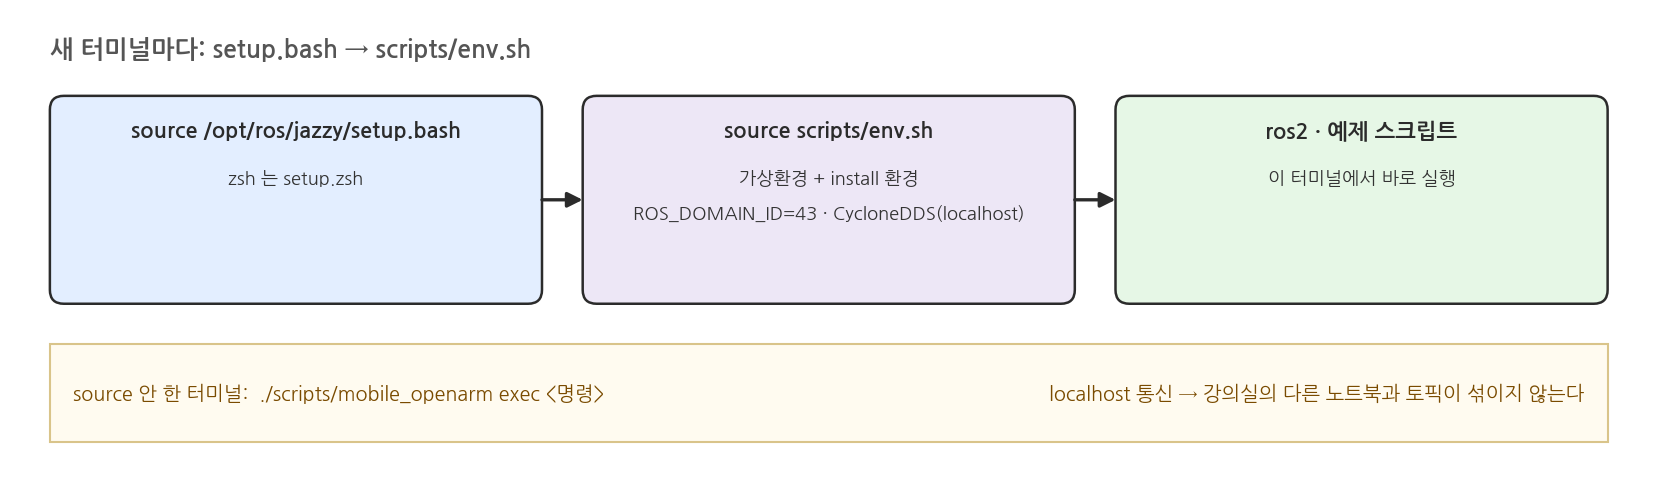
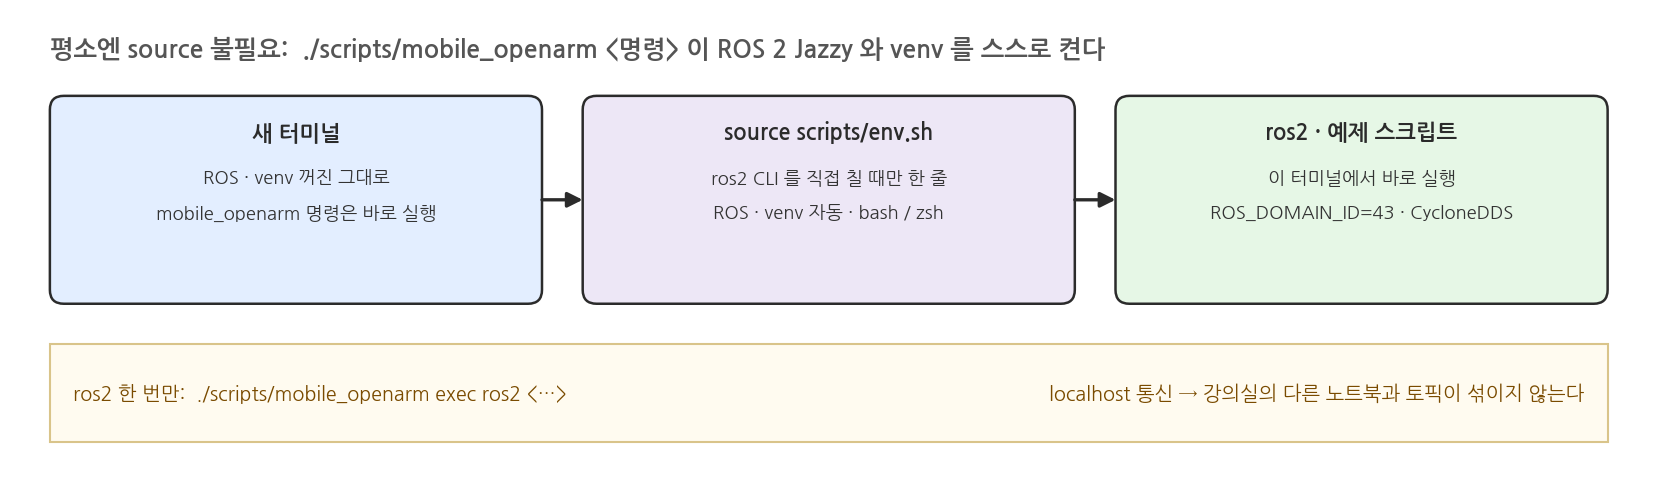
Setup page: redraw install and env.sh figures for the new install flow
The ③ install-script, install_lecture.sh step, env.sh and env.sh step
figures still showed the old flow (ROS must be sourced first, missing apt
packages abort, bare pip check, source in every terminal). They now show:
install_lecture.sh installs missing apt packages with retries, runs rosdep
init/update, builds the venv from /usr/bin/python3, filters pip conflicts
with check_pip_deps.py and ends with doctor; mobile_openarm needs no source
and env.sh is only for typing ros2 directly (ROS and venv turned on
automatically, bash or zsh). The zsh troubleshooting tile points to env.sh.

Confluence page 3692331054 v40 (attachments v8).

diff --git a/docs/camp/draw_setup_detail_figures.py b/docs/camp/draw_setup_detail_figures.py
@@ -36,11 +36,11 @@ def ros2_packages():
 # ================================================================ 1-2. install script
 def install_script():
     fig, ax = fig_ax(14, 3.9)
-    note(ax, 0.3, 3.6, "② git clone  →  ③ ./scripts/install_lecture.sh 가 하는 일", bold=True, fs=12)
-    chain(ax, [("rosdep 확인", ["빠진 ROS 패키지 안내"]), ("가상환경", [".venv-mobile-openarm", "ROS Python과 분리"]),
-               ("pip", ["torch CPU · ultralytics", "openai · mujoco …"]), (".env 생성", [".env.example 복사", "OpenAI 키 자리"]),
-               ("colcon build", ["ROS 2 워크스페이스"]), ("단위 테스트", ["\"설치 완료\" 출력", "= 성공"])],
-          y=1.2, h=1.9, gap=0.25, colors=[C["grey"], C["purple"], C["purple"], C["yellow"], C["blue"], C["green"]], tfs=10.5, fs=8.6)
+    note(ax, 0.3, 3.6, "② git clone  →  ③ ./scripts/install_lecture.sh 가 하는 일 (여러 번 실행해도 안전)", bold=True, fs=12)
+    chain(ax, [("apt 패키지", ["apt_packages.txt 24개", "빠진 것만 설치"]), ("rosdep", ["처음이면 init · update", "src/ 의존성 설치"]),
+               ("가상환경", [".venv-mobile-openarm", "항상 /usr/bin/python3"]), ("pip + 충돌 검사", ["torch CPU · openai …", "강의 무관 충돌은 WARN"]),
+               ("colcon build", ["ROS 2 워크스페이스", ".env 도 이때 생성"]), ("단위 테스트", ["\"설치 완료\" 출력", "→ doctor 로 점검"])],
+          y=1.2, h=1.9, gap=0.25, colors=[C["blue"], C["grey"], C["purple"], C["purple"], C["blue"], C["green"]], tfs=10.5, fs=8.6)
     note(ax, 0.3, 0.6, "고정 버전은 올리지 않는다:  numpy<2 · opencv-python<4.11 · setuptools<80 · ml-dtypes<0.6   (ROS Jazzy Python 스택 · colcon 호환)", fs=9.2, color="#C62828")
     save(fig, "setup_install_script.png")
 
@@ -48,15 +48,15 @@ def install_script():
 # ================================================================ 1-2b. install_lecture.sh step by step
 def install_script_detail():
     fig, ax = fig_ax(14, 5.2)
-    note(ax, 0.3, 4.9, "scripts/install_lecture.sh 안에서 일어나는 일 (실패하면 그 단계에서 멈춘다: set -e)", bold=True, fs=12)
-    flow_rows(ax, [("1  사전 검사", "ROS_DISTRO=jazzy · Linux 인지"), ("2  rosdep install", "src/ 의 package.xml 의존성"),
-                   ("3  apt 누락 검사", "빠지면 안내 후 종료"), ("4  venv 생성", "system-site-packages"),
-                   ("5  pip 설치", "requirements-*.txt 2개"), ("6  pip check", "의존성 충돌이면 종료"),
+    note(ax, 0.3, 4.9, "scripts/install_lecture.sh 안에서 일어나는 일 (실패하면 그 단계에서 멈춘다 → 고친 뒤 다시 실행)", bold=True, fs=12)
+    flow_rows(ax, [("1  사전 준비", "Linux · ROS 자동 source"), ("2  apt 패키지", "빠진 것 설치 · 끊기면 재시도"),
+                   ("3  rosdep", "처음이면 init · update"), ("4  venv 생성", "항상 /usr/bin/python3"),
+                   ("5  pip 설치", "requirements 2개 · 재시도 10회"), ("6  충돌 검사", "check_pip_deps.py"),
                    ("7  .env", "없으면 .env.example 복사"), ("8  colcon build", "symlink · 필요한 패키지만"),
-                   ("9  pytest -x", "시뮬레이터 없이"), ("10  완료 안내", "\"설치 완료\" 출력")],
+                   ("9  pytest -x", "시뮬레이터 없이"), ("10  완료 안내", "\"설치 완료\" → doctor")],
               per_row=5, y_top=4.5, h=1.35, gap=0.25, row_gap=0.7,
               colors=[C["grey"], C["blue"], C["blue"], C["purple"], C["purple"], C["purple"], C["yellow"], C["blue"], C["green"], C["green"]], tfs=10.5, fs=8.4)
-    note(ax, 0.3, 0.35, "빌드 환경 변수: MOBILE_ENV_MODE=native      테스트 환경 변수: MOBILE_OPENARM_MODEL_DIR=artifacts/mobile_generated", fs=9.2)
+    note(ax, 0.3, 0.35, "conda 가 켜진 터미널도 된다 (conda Python 으로 만든 venv 는 다시 만든다)      충돌 검사: 강의와 무관한 apt 패키지끼리의 충돌은 WARN 만", fs=9.2)
     save(fig, "setup_install_script_detail.png")
 
 
@@ -86,12 +86,12 @@ def openai_key():
 # ================================================================ 1-4. env.sh per terminal
 def env_sh():
     fig, ax = fig_ax(14, 4.0)
-    note(ax, 0.3, 3.7, "새 터미널마다: setup.bash → scripts/env.sh", bold=True, fs=12)
-    chain(ax, [("source /opt/ros/jazzy/setup.bash", ["zsh 는 setup.zsh"]), ("source scripts/env.sh", ["가상환경 + install 환경", "ROS_DOMAIN_ID=43 · CycloneDDS(localhost)"]),
-               ("ros2 · 예제 스크립트", ["이 터미널에서 바로 실행"])],
+    note(ax, 0.3, 3.7, "평소엔 source 불필요:  ./scripts/mobile_openarm <명령> 이 ROS 2 Jazzy 와 venv 를 스스로 켠다", bold=True, fs=12)
+    chain(ax, [("새 터미널", ["ROS · venv 꺼진 그대로", "mobile_openarm 명령은 바로 실행"]), ("source scripts/env.sh", ["ros2 CLI 를 직접 칠 때만 한 줄", "ROS · venv 자동 · bash / zsh"]),
+               ("ros2 · 예제 스크립트", ["이 터미널에서 바로 실행", "ROS_DOMAIN_ID=43 · CycloneDDS"])],
           y=1.5, h=1.8, colors=[C["blue"], C["purple"], C["green"]], tfs=10.5, fs=8.8)
     ax.add_patch(Rectangle((0.3, 0.3), 13.4, 0.85, fc="#FFFBF0", ec="#D9C48A", lw=1.0, zorder=1))
-    note(ax, 0.5, 0.72, "source 안 한 터미널:  ./scripts/mobile_openarm exec <명령>", fs=9.5, color="#7a4b00")
+    note(ax, 0.5, 0.72, "ros2 한 번만:  ./scripts/mobile_openarm exec ros2 <…>", fs=9.5, color="#7a4b00")
     note(ax, 13.5, 0.72, "localhost 통신 → 강의실의 다른 노트북과 토픽이 섞이지 않는다", fs=9.5, ha="right", color="#7a4b00")
     save(fig, "setup_env_sh.png")
 
@@ -100,7 +100,7 @@ def env_sh():
 def env_sh_detail():
     fig, ax = fig_ax(14, 4.6)
     note(ax, 0.3, 4.3, "scripts/env.sh 안에서 일어나는 일 (source 해서 현재 셸에 적용)", bold=True, fs=12)
-    flow_rows(ax, [("1  ROS 확인", "ROS_DISTRO=jazzy 아니면 중단"), ("2  가상환경 활성화", ".venv-mobile-openarm"),
+    flow_rows(ax, [("1  ROS 켜기", "꺼져 있으면 setup.bash · zsh 자동"), ("2  가상환경 활성화", ".venv-mobile-openarm"),
                    ("3  워크스페이스", "install/local_setup.bash · zsh"), ("4  통신 범위", "DOMAIN_ID=43 · localhost 만"),
                    ("5  DDS", "CycloneDDS + cyclonedds.xml"), ("6  로그 위치", "ROS_HOME · ROS_LOG_DIR → .ros/"),
                    ("7  모델 · 파이썬", "MODEL_DIR · PYTHONNOUSERSITE=1"), ("8  ros2launch 함수", "venv python 으로 launch")],
@@ -316,7 +316,7 @@ def trouble_env():
     tiles(ax, [("ros2 CLI에 아무것도 안 보임", ["원인: env.sh 미적용 · wrapper 없이 실행", "조치: source scripts/env.sh 또는 mobile_openarm exec ros2 …", "토픽이 2개만 보이면 ros2 daemon stop 후 다시"], C["blue"]),
                ("액션 거부 · Nav2 없음 · 노드 중복", ["원인: 이전 실행 프로세스가 남아 있음", "조치: ./scripts/cleanup_ros.sh → 다시 start"], C["yellow"]),
                ("bridge가 ModuleNotFoundError: mujoco 로 죽음", ["원인: 가상환경 없이 ros2 launch 직접 실행", "조치: wrapper (./scripts/mobile_openarm start) 사용"], C["red"]),
-               ("zsh에서 setup.bash 오류", ["원인: ROS 스크립트는 셸별 파일이 있다", "조치: source /opt/ros/jazzy/setup.zsh"], C["grey"])],
+               ("zsh에서 setup.bash 오류", ["원인: ROS 스크립트는 셸별 파일이 있다", "조치: source scripts/env.sh (zsh 자동 처리)", "직접 켤 때는 source /opt/ros/jazzy/setup.zsh"], C["grey"])],
           cols=2, y_top=3.8, h=1.6, gap=0.3, tfs=10.5, fs=8.6)
     save(fig, "setup_trouble_env.png")
 
